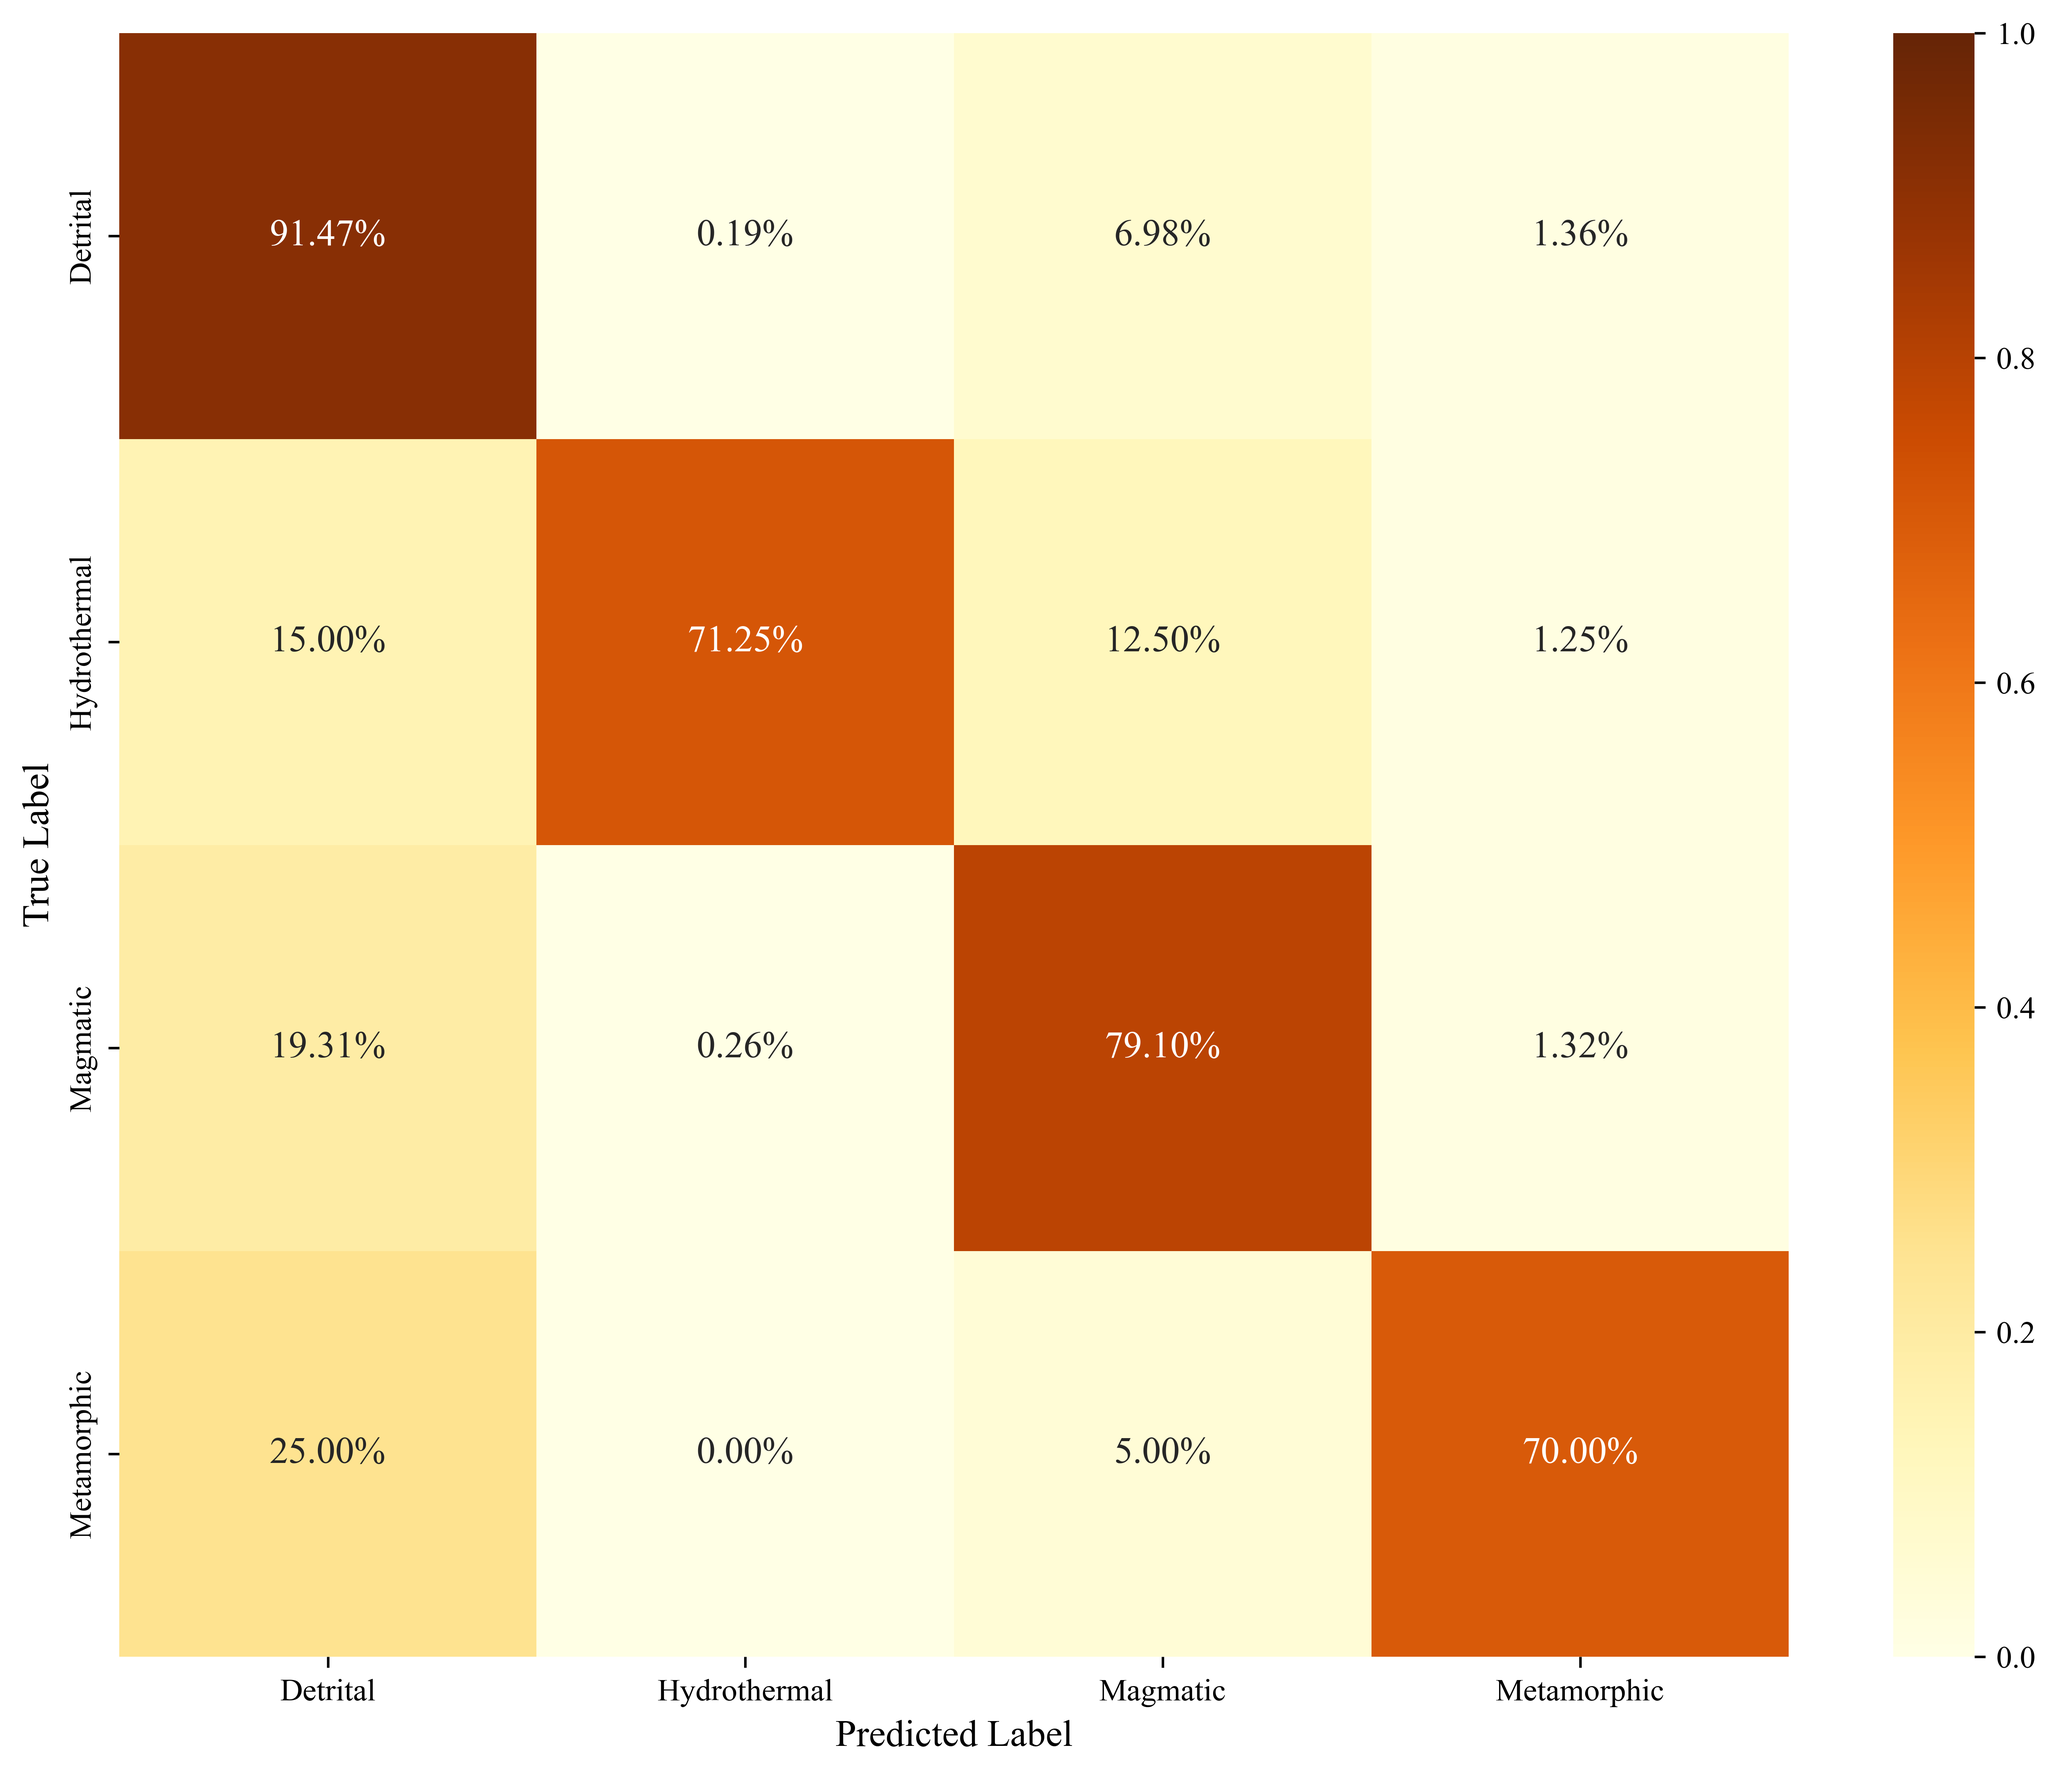
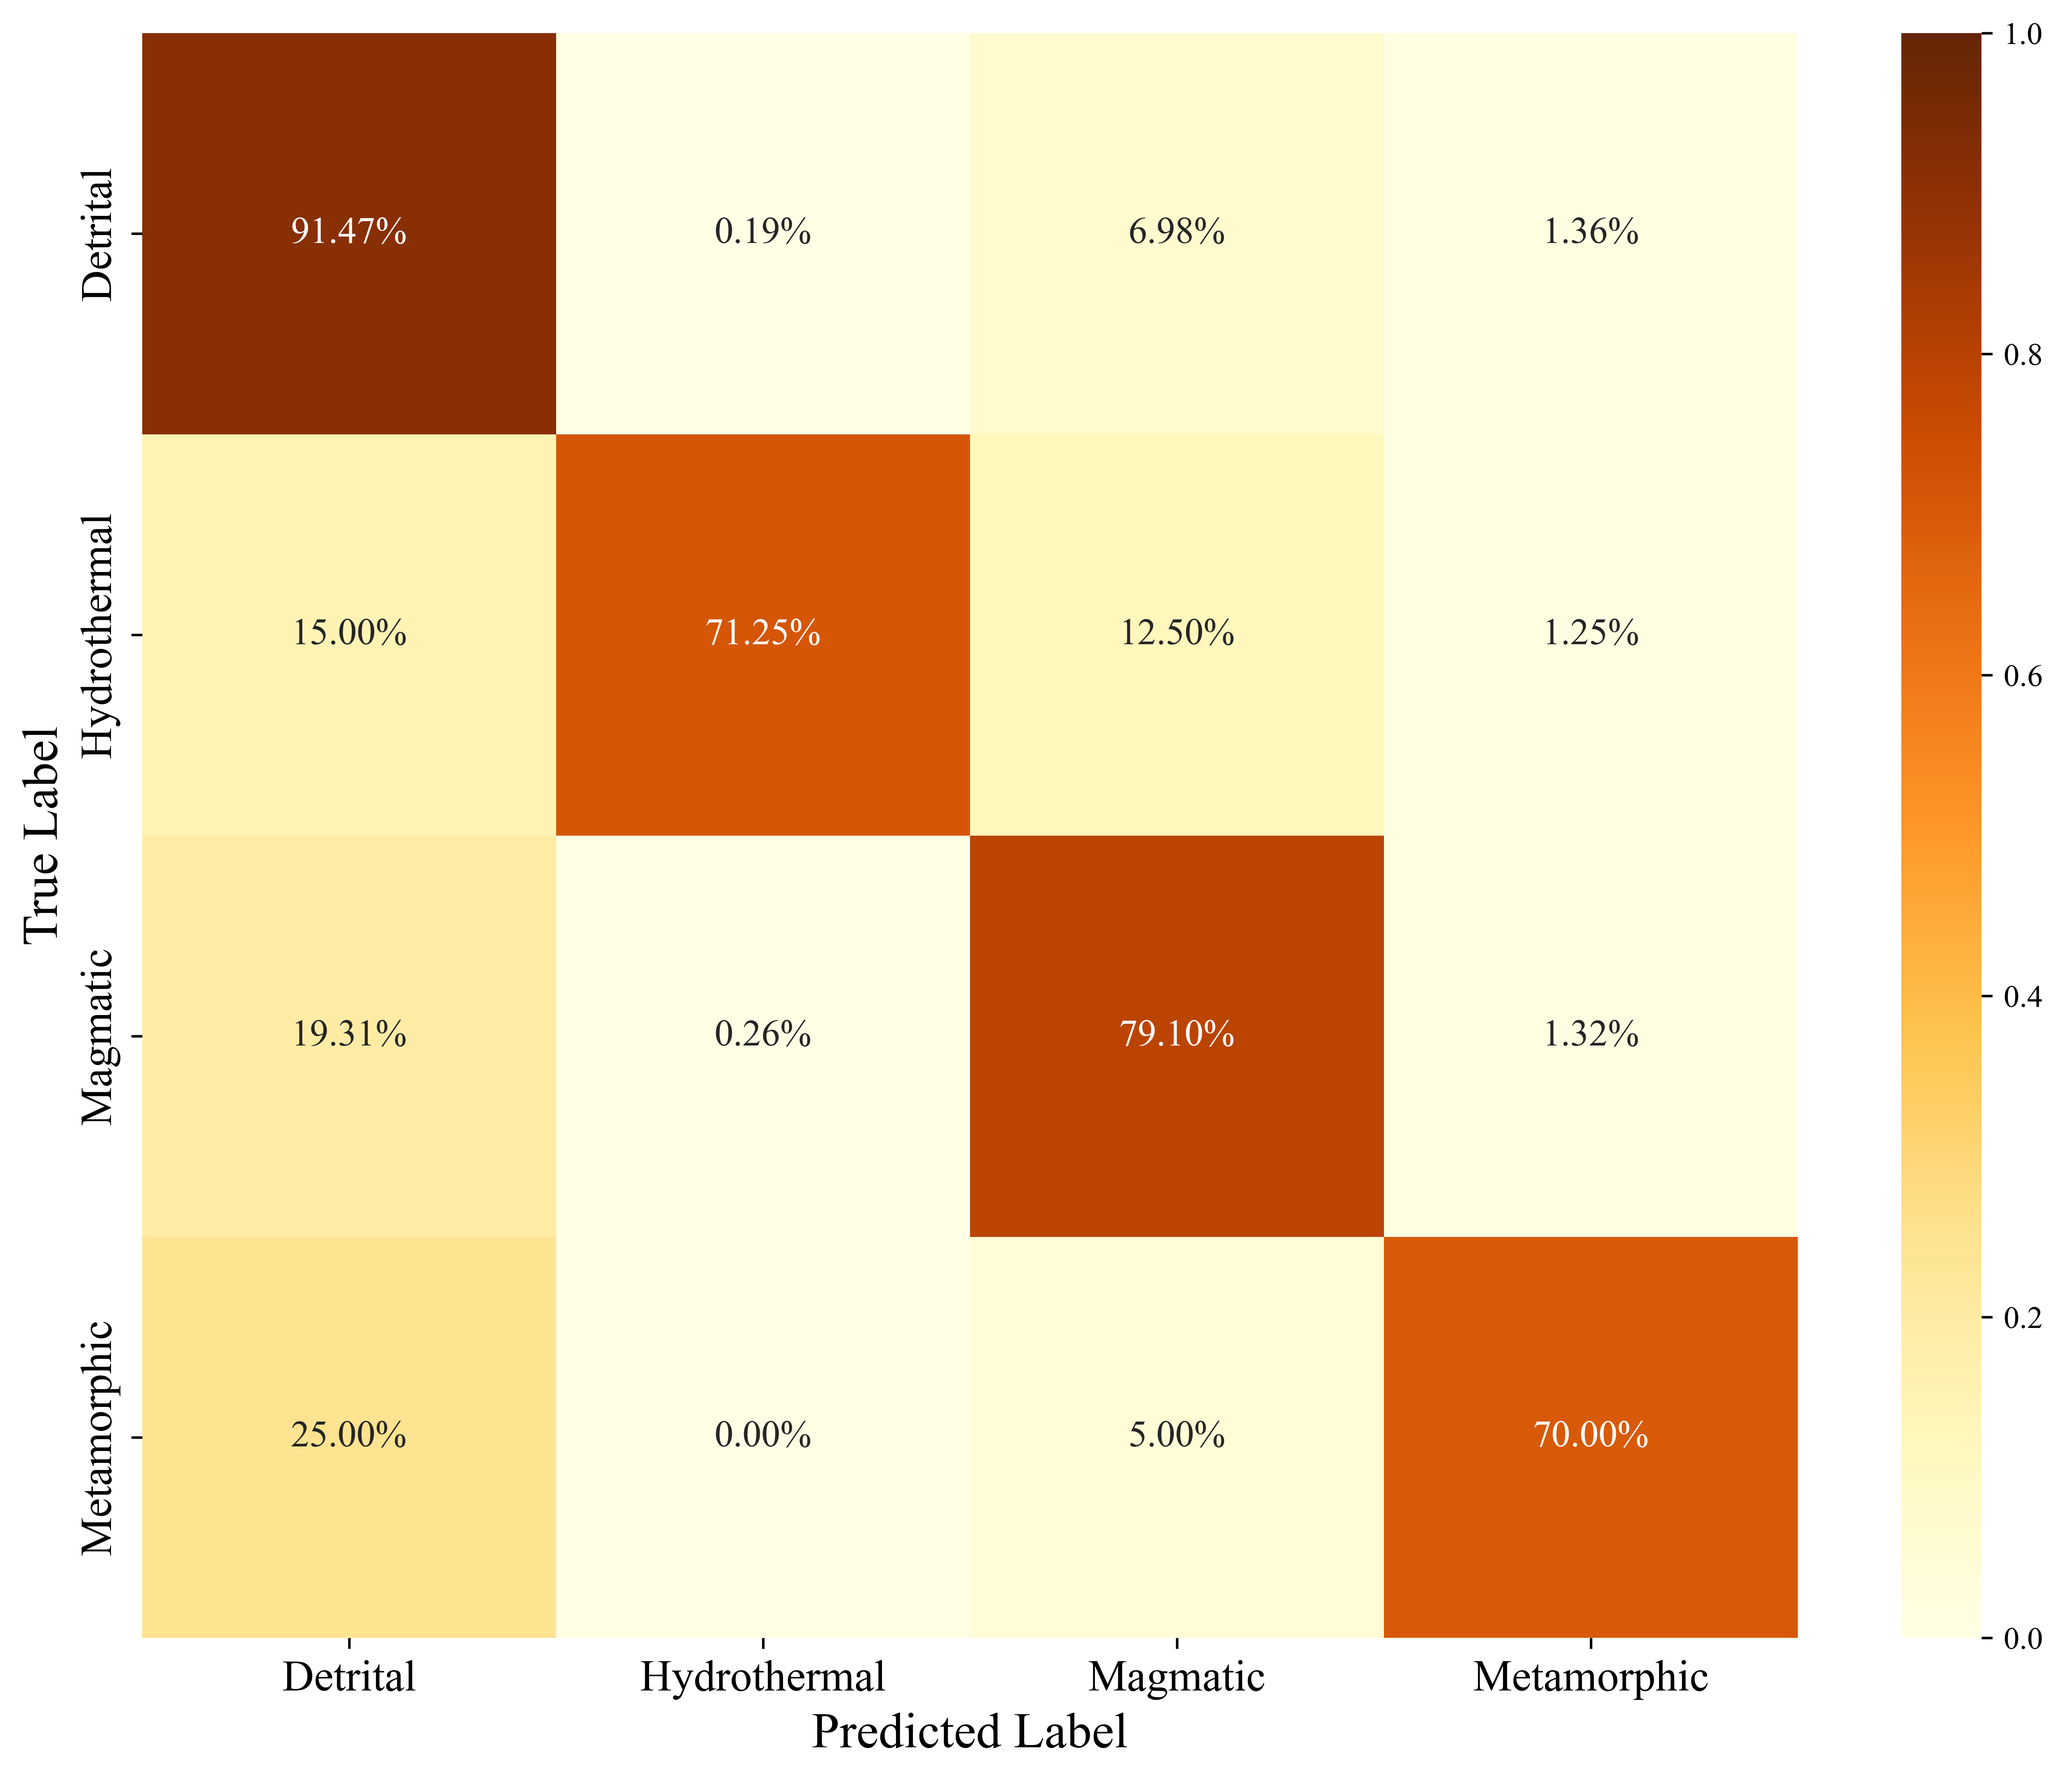
主要脚本目录

diff --git a/src/runner/11.py b/src/runner/11.py
@@ -1,0 +1,196 @@
+import joblib
+import matplotlib.pyplot as plt
+import matplotlib.colors as mcolors
+import matplotlib.patches as patches
+from matplotlib.path import Path
+import numpy as np
+import pandas as pd
+import shap
+from src.config.config import PROCESSED_DIR, MODEL_DIR
+
+# 配色 (保持原样)
+COLORS = ["#8CB2CF", "#D0DCEF", "#F6A8A1", "#D63E51"]
+cmap = mcolors.LinearSegmentedColormap.from_list(
+    "nature_style", COLORS
+)
+# 字体设置 (保持原样)
+plt.rcParams["font.family"] = "Times New Roman"
+
+
+def draw_shap_importance_chart(data):
+    ids = [d["id"] for d in data]
+    values = np.array([d["val"] for d in data])
+    # pcts = np.array([d["pct"] for d in data])
+
+    norm = mcolors.Normalize(vmin=values.min(), vmax=values.max())
+    colors = cmap(norm(values))
+
+    # 1. 画布布局调整：分为3列 [网络图, 条形图, 色标]
+    # 宽度比例调整：网络图(1.2) + 条形图(4) + 色标(0.7)
+    fig = plt.figure(figsize=(15, 7), facecolor="white")
+    gs = fig.add_gridspec(
+        1,
+        3,
+        width_ratios=[1.2, 4, 0.7],
+        wspace=0.05
+    )
+
+    ax_net = fig.add_subplot(gs[0])  # 新增：网络图
+    ax_bar = fig.add_subplot(gs[1])  # 原：条形图
+    ax_legend = fig.add_subplot(gs[2])  # 原：色标
+
+    # ==========================================
+    # 2. 绘制左侧 TOP 15 汇聚网络图 (ax_net)
+    # ==========================================
+    ax_net.axis("off")  # 隐藏坐标轴
+
+    y_pos = np.arange(len(ids))
+    # 设置 Y 轴范围与条形图一致，确保连线对齐
+    # 注意：这里设置 ylim 后，下面必须 invert_yaxis 才能与 ax_bar 对应
+    ax_net.set_ylim(-0.5, len(ids) - 0.5)
+    ax_net.invert_yaxis() # 【修正1】：翻转Y轴，使 Index 0 (Ce) 在顶部，与 ax_bar 一致
+    ax_net.set_xlim(0, 10)  # 内部坐标系
+
+    # 绘制 "TOP 15" 圆圈
+    # 位置：X=2, Y=中间
+    center_x, center_y = 2, len(ids) / 2 - 0.5
+    circle = patches.Circle((center_x, center_y), radius=1.2,
+                            facecolor='#3B6CB5', edgecolor='white', linewidth=2, zorder=10)
+    ax_net.add_patch(circle)
+    ax_net.text(center_x, center_y, "TOP\n15", color='white',
+                ha='center', va='center', fontsize=14, fontweight='bold', zorder=11)
+
+    # 绘制连接线 (从圆圈右侧发散到右侧边界)
+    start_x_edge = center_x + 1.2
+    # 【修正2】：减小 end_x，避免线条延伸到 ax_bar 的标签处造成遮挡
+    # 原来 9.8 太靠右了，现在设为 8.5，留出右侧空间
+    end_x = 8.5
+
+    for i in range(len(ids)):
+        y_val = i
+        color = cmap(norm(values[i]))
+        # 线宽映射：Value越大越粗，范围 1.5 到 5
+        lw = 1.5 + 3.5 * norm(values[i])
+
+        # 使用贝塞尔曲线绘制平滑连接线
+        # 控制点设计：先水平向右，再弯曲到目标 Y
+        # 调整控制点以适应新的 end_x (8.5)
+        verts = [
+            (start_x_edge, center_y),  # 起点 (圆圈边缘)
+            (4, center_y),  # 控制点1
+            (6.5, y_val),  # 控制点2 (稍微提前弯曲)
+            (end_x, y_val),  # 终点
+        ]
+        codes = [Path.MOVETO, Path.CURVE4, Path.CURVE4, Path.CURVE4]
+
+        path = Path(verts, codes)
+        patch = patches.PathPatch(path, facecolor='none', edgecolor=color,
+                                  linewidth=lw, zorder=5)
+        ax_net.add_patch(patch)
+
+    # ==========================================
+    # 3. 绘制中间横向条形图 (ax_bar) - 保持原代码逻辑
+    # ==========================================
+    y_pos = np.arange(len(ids))
+    ax_bar.barh(
+        y_pos,
+        values,
+        color=colors,
+        height=0.6,
+        zorder=2
+    )
+
+    ax_bar.invert_yaxis()
+    ax_bar.set_yticks(y_pos)
+    ax_bar.set_yticklabels(ids, fontsize=12)
+    ax_bar.set_xlabel(
+        "SHAP Importance (Mean |SHAP value|)",
+        fontsize=14,
+    )
+
+    ax_bar.set_xlim(0, values.max() * 1.1)
+    ax_bar.tick_params(direction="in")
+    ax_bar.spines["top"].set_visible(False)
+    ax_bar.spines["right"].set_visible(False)
+
+    for spine in ax_bar.spines.values():
+        spine.set_linewidth(0.8)
+
+    # ==========================================
+    # 4. 颜色标尺 (ax_legend) - 保持原代码逻辑
+    # ==========================================
+    ax_legend.axis("off")
+    gradient = np.linspace(1, 0, 256).reshape(-1, 1)
+    ax_cbar = ax_legend.inset_axes([-0.1, 0.05, 0.18, 0.9])
+    ax_cbar.imshow(
+        gradient,
+        aspect="auto",
+        cmap=cmap
+    )
+    ax_cbar.axis("off")
+    ax_legend.text(
+        0.18,
+        0.96,
+        "High Contribution",
+        fontsize=12,
+        va="center"
+    )
+    ax_legend.text(
+        0.18,
+        0.04,
+        "Low Contribution",
+        fontsize=12,
+        va="center"
+    )
+
+    # plt.savefig('Feature SHAP Network_Bar.png', dpi=600, bbox_inches='tight')
+    plt.show()
+
+
+if __name__ == "__main__":
+    # ========== 基础设置 ==========
+    plt.rcParams["font.family"] = "Times New Roman"
+    plt.rcParams["mathtext.fontset"] = "stix"
+    plt.rcParams['axes.unicode_minus'] = False
+
+    # 1.读取数据
+
+    X = pd.read_csv(PROCESSED_DIR / "x_train_fea_move.csv").iloc[:, 1:]
+    y = pd.read_csv(PROCESSED_DIR / "y_train_fea_move.csv").iloc[:, 1].values.ravel()
+    feature_names = X.columns.tolist()
+
+    # 2.加载模型
+    model_file = MODEL_DIR / "best_xgb_model_fea_dis_move_pca_0.3.pkl"
+    pipeline = joblib.load(model_file)
+    best_model = pipeline.steps[-1][1]
+
+    # 3.可解释性分析
+    explainer = shap.TreeExplainer(best_model)
+    shap_values = explainer.shap_values(X)
+
+    # 4.多分类 SHAP 处理
+    mean_shap = np.abs(shap_values).mean(axis=2).mean(axis=0)
+    total_importance = mean_shap.sum()
+    analysis_data = []
+    for i in range(len(feature_names)):
+        analysis_data.append({
+            "id": feature_names[i],
+            "val": mean_shap[i],
+            "pct": mean_shap[i] / total_importance * 100
+        })
+
+    # 5. Top 15 (已修改为15)
+    analysis_data = sorted(
+        analysis_data,
+        key=lambda x: x["val"],
+        reverse=True
+    )[:15]
+
+    for i in range(len(analysis_data)):
+        # 修复 f-string 中的引号问题
+        print(f'id: {analysis_data[i]["id"]}, value: {analysis_data[i]["val"]}')
+
+    # 绘图
+    draw_shap_importance_chart(analysis_data)
+
+

diff --git a/src/runner/evaluate.py b/src/runner/evaluate.py
@@ -51,6 +51,8 @@ def evaluate(x_data, y_data, model_file, label_mapping=None):
 
     # 科研级配色 - Nature/Science风格
     cmap = sns.light_palette("#3B6FB6", as_cmap=True)
+    # cmap = sns.color_palette("YlOrBr", as_cmap=True)
+
 
     # 可视化混淆矩阵
     plt.figure(figsize=(10, 8))
@@ -67,25 +69,26 @@ def evaluate(x_data, y_data, model_file, label_mapping=None):
     )
 
     # plt.title('Confusion Matrix', fontsize=14, fontweight='bold', pad=20) # 取消了标题，不需要
-    plt.ylabel('True Label', fontsize=12)
-    plt.xlabel('Predicted Label', fontsize=12)
+    plt.ylabel('True Label', fontsize=16)
+    plt.xlabel('Predicted Label', fontsize=16)
 
     # 调整刻度标签
-    plt.xticks(fontsize=10, rotation=0, ha='center')
-    plt.yticks(fontsize=10)
+    plt.xticks(fontsize=14, rotation=0, ha='center')
+    plt.yticks(fontsize=14)
 
     plt.tight_layout()
-    # plt.savefig('svm_confusion_matrix_extract', dpi=600, bbox_inches='tight')
+    # plt.savefig('rf_confusion_matrix_extract', dpi=600, bbox_inches='tight')
     plt.show()
 
 
 if __name__ == '__main__':
+    REE_columns = ['Ce','Sm','HREE','Dy','Gd','Nd','LREE','Th','Eu_anomaly','Yb','Gd_Yb_ratio','Nd_Yb_ratio','Eu','Ho','Tm','Lu','U','sum_REE','Th_U_ratio']
+    x_data = pd.read_csv(PROCESSED_DIR / 'x_test_fea_move.csv').loc[:,REE_columns]
+    y_data = pd.read_csv(PROCESSED_DIR / 'y_test_fea_move.csv').iloc[:,1:].values.ravel()
 
-    x_data = pd.read_csv(PROCESSED_DIR / 'x_test_fea_move.csv').iloc[:,1:]
-    y_data = pd.read_csv(PROCESSED_DIR / 'y_test_fea_move.csv').iloc[:,1:]
+    model_file = MODEL_DIR / 'best_xgb_model_fea_dis_move_extract_pca.pkl'
+    model = joblib.load(model_file)
+    print(model.named_steps)
 
-    model_file = MODEL_DIR / 'best_rf_model_fea_dis_move_extract_pca_rffea.pkl'
-    # model = joblib.load(model_file)
-    # print(model)
     label = {0:'Detrital',1:'Hydrothermal',2:'Magmatic',3:'Metamorphic'}
     evaluate(x_data,y_data,model_file,label_mapping=label)

diff --git a/src/runner/SHAP_analysis_Radial.py b/src/runner/SHAP_analysis_Radial.py
@@ -21,16 +21,15 @@ def draw_shap_radial_bar(data):
 
     # 1. 优化图形数值显示
     values = np.sqrt(values)   # ⭐核心：压缩极端值
-    values = values / values.max()
+    values = values / (values.max() + 1)
+
+    # 颜色
+    norm = mcolors.Normalize(vmin=values.min(), vmax=values.max()+0.05)
+    colors = cmap(norm(values))
 
     # 2.角度
     N = len(values)
     angles = np.linspace(0, 2 * np.pi, N, endpoint=False)
-
-    # 3.每个柱不同颜色
-    color_positions = np.linspace(0.1, 0.9, N)  # 避免极端浅/深
-    colors = [cmap(p) for p in color_positions]
-
     # 4.画布
     fig = plt.figure(figsize=(8, 8), facecolor="white")
     ax = plt.subplot(111, polar=True)
@@ -49,7 +48,7 @@ def draw_shap_radial_bar(data):
 
     # 6.标签优化
     ax.set_xticks(angles)
-    ax.set_xticklabels(labels, fontsize=11)
+    ax.set_xticklabels(labels, fontsize=14)
 
     for label, angle in zip(ax.get_xticklabels(), angles):
         angle_deg = np.degrees(angle)
@@ -60,7 +59,7 @@ def draw_shap_radial_bar(data):
         label.set_horizontalalignment('center')
 
     ax.set_yticklabels([])
-    ax.grid(True, linestyle="--", alpha=0.3)
+    ax.grid(True, linestyle="--", alpha=0.4)
     ax.spines["polar"].set_visible(False)
     plt.tight_layout()
     plt.savefig('Feature_SHAP_RadialBar', dpi=600, bbox_inches='tight')
@@ -73,12 +72,13 @@ if __name__ == "__main__":
     plt.rcParams['axes.unicode_minus'] = False
 
     # 1.读取数据
+
     X = pd.read_csv(PROCESSED_DIR / "x_train_fea_move.csv").iloc[:, 1:]
     y = pd.read_csv(PROCESSED_DIR / "y_train_fea_move.csv").iloc[:, 1].values.ravel()
     feature_names = X.columns.tolist()
 
     # 2.加载模型
-    model_file = MODEL_DIR / "best_rf_model_fea_dis_move_pca.pkl"
+    model_file = MODEL_DIR / "best_xgb_model_fea_dis_move_pca_0.3.pkl"
     pipeline = joblib.load(model_file)
     best_model = pipeline.steps[-1][1]
 

diff --git a/src/runner/SHAP_analysis_Bar.py b/src/runner/SHAP_analysis_Bar.py
@@ -85,7 +85,7 @@ def draw_shap_importance_chart(data):
         fontsize=12,
         va="center"
     )
-    plt.savefig('Feature SHAP Bar', dpi=600, bbox_inches='tight')
+    # plt.savefig('Feature SHAP Bar', dpi=600, bbox_inches='tight')
     plt.show()
 
 
@@ -101,7 +101,7 @@ if __name__ == "__main__":
     feature_names = X.columns.tolist()
 
     # 2.加载模型
-    model_file = MODEL_DIR / "best_rf_model_fea_dis_move_pca.pkl"
+    model_file = MODEL_DIR / "best_xgb_model_fea_dis_move_pca_0.3.pkl"
     pipeline = joblib.load(model_file)
     best_model = pipeline.steps[-1][1]
 
@@ -127,11 +127,10 @@ if __name__ == "__main__":
         analysis_data,
         key=lambda x: x["val"],
         reverse=True
-    )[:22]
+    )[:15]
 
     for i in range(len(analysis_data)):
         print(f'id:{analysis_data[i]['id']},value:{analysis_data[i]['val']}')
     # 绘图
     draw_shap_importance_chart(analysis_data)
-
 

diff --git a/src/runner/SHAP_analysis_Bees.py b/src/runner/SHAP_analysis_Bees.py
@@ -55,7 +55,7 @@ def draw_shap_beeswarm_chart(shap_values, features, feature_names):
     )
 
     # 2.3 调整X轴标签
-    ax.set_xlabel("SHAP Value (Average impact on model output magnitude)", fontsize=14)
+    # ax.set_xlabel("SHAP Value (Average impact on model output magnitude)", fontsize=14)
     plt.tight_layout()
     plt.savefig('Feature SHAP Bees', dpi=600, bbox_inches='tight')
     plt.show()

diff --git a/src/runner/xgboost_trainer.py b/src/runner/xgboost_trainer.py
@@ -54,6 +54,7 @@ def train(random_state,model_path,x_train,y_train,std_or_rb = None,use_smote = F
 
     pipeline = Pipeline([
         ('scaler', std_or_rb),
+        ('pca',PCA(n_components=None)),
         ('xgb', XGBClassifier(
             objective='multi:softprob', # 多分类任务
             eval_metric='mlogloss',
